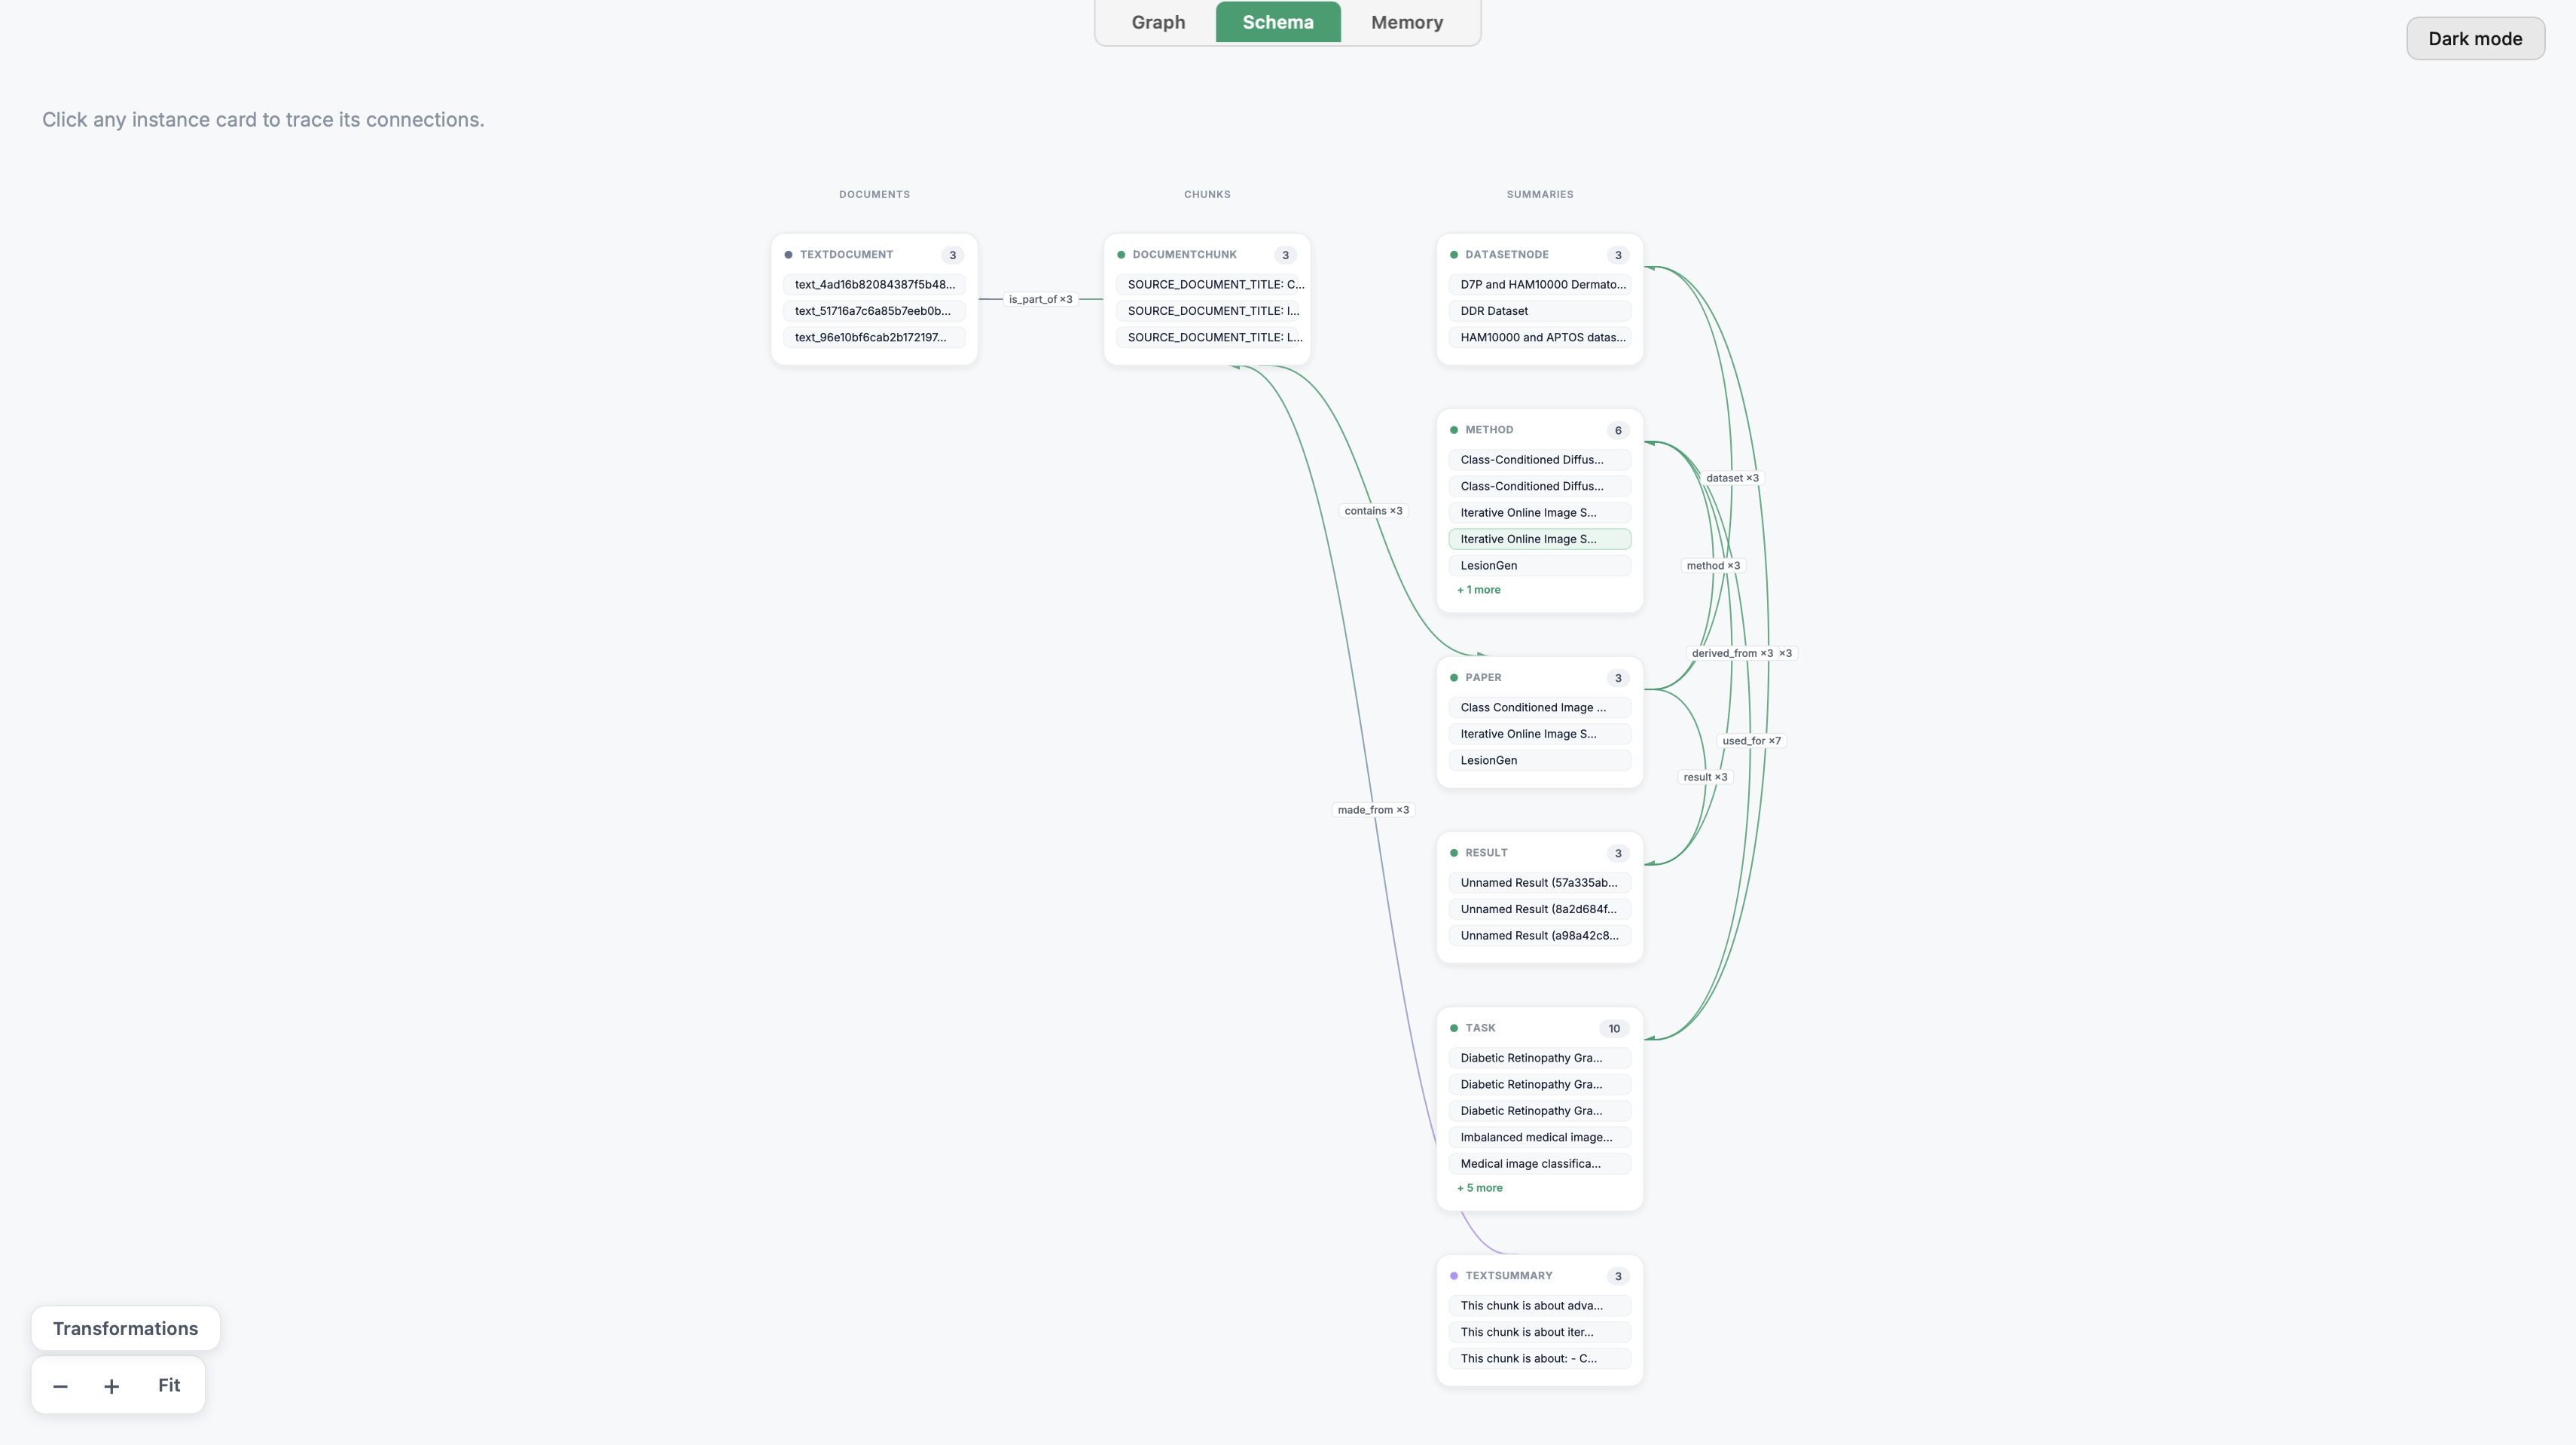
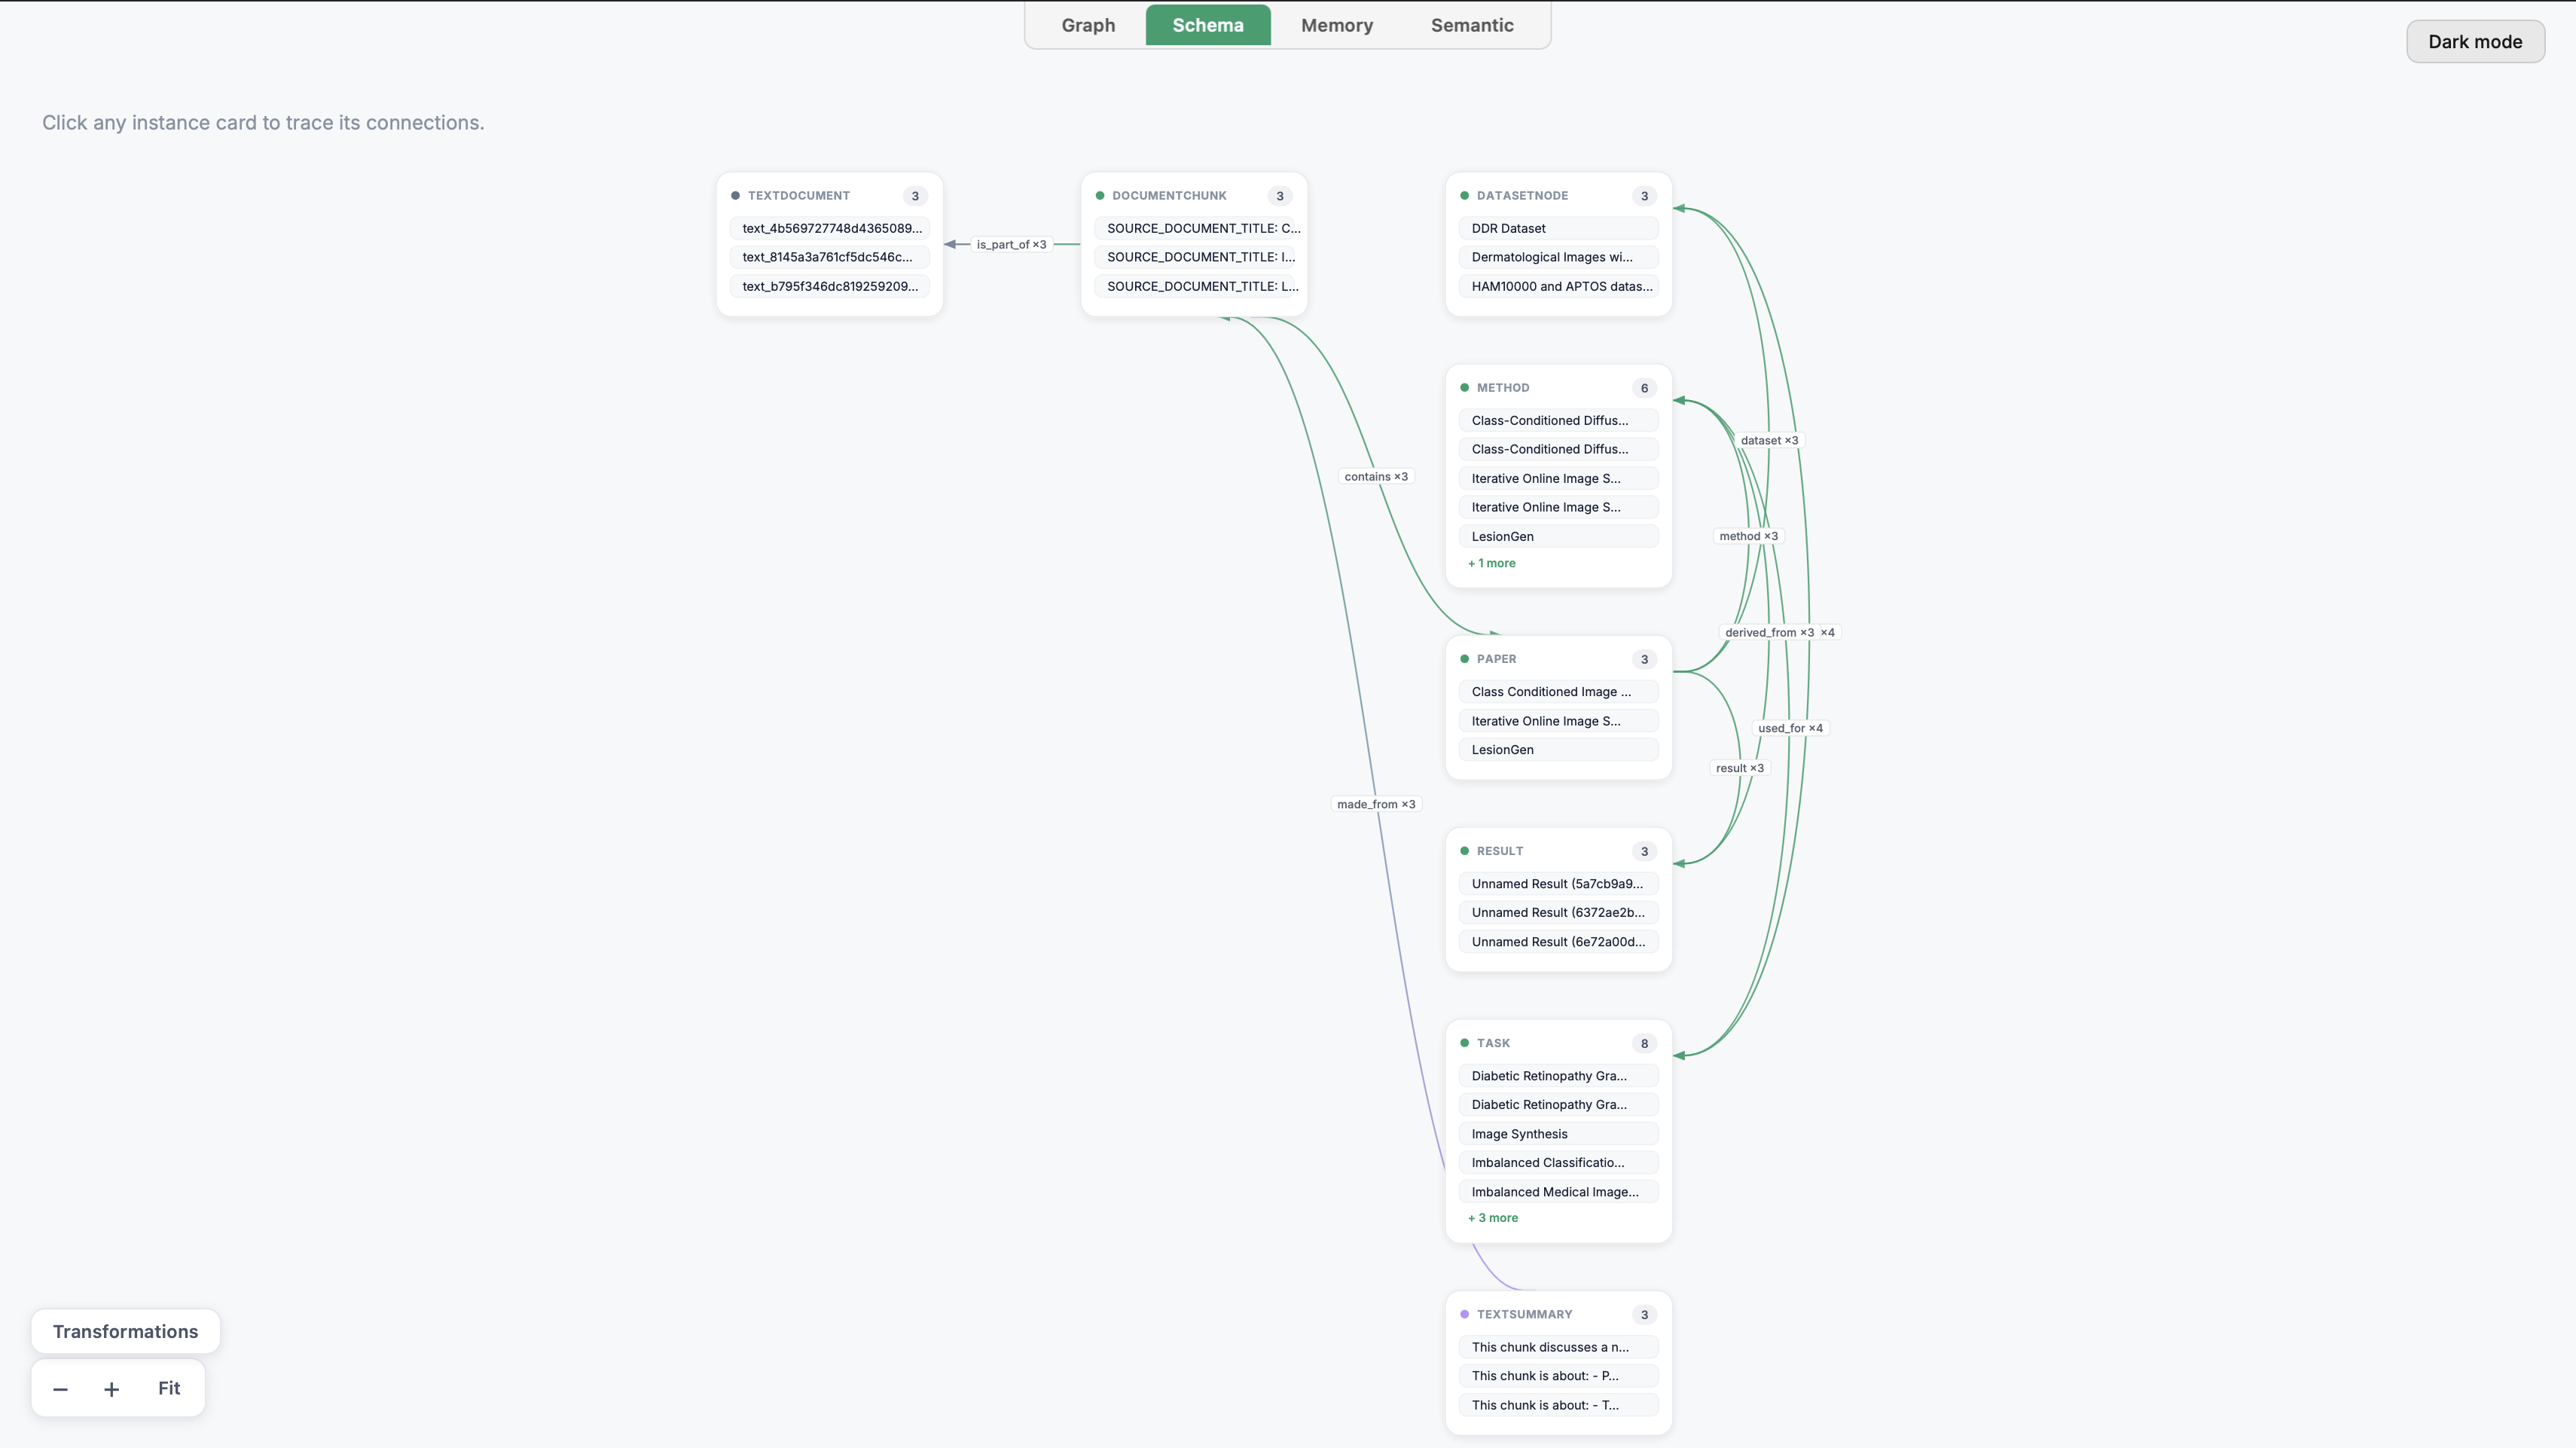
updated readme

diff --git a/README.md b/README.md
@@ -58,7 +58,13 @@ Every pipeline run also writes an interactive HTML visualization of the construc
 
 ## Example run
 
-Fed 3 papers on diffusion-based synthetic data generation for imbalanced medical image classification (diabetic retinopathy grading and skin lesion classification), the pipeline surfaced 3 candidate (Method, Dataset) pairs. The Critic approved 1 and rejected 2 - which is the verification loop doing its job, not a failure rate to minimize.
+Fed 3 papers on diffusion-based synthetic data generation for imbalanced medical image classification (diabetic retinopathy grading and skin lesion classification):
+
+1. [Iterative Online Image Synthesis via Diffusion Model for Imbalanced Classification](https://papers.miccai.org/miccai-2024/paper/0901_paper.pdf)
+2. [Class-Conditioned Image Synthesis with Diffusion for Imbalanced Diabetic Retinopathy Grading](https://papers.miccai.org/miccai-2025/paper/4449_paper.pdf)
+3. [LesionGen: A Concept-Guided Diffusion Model for Dermatology Image Synthesis](https://workshop.isic-archive.com/2025/paper_fayyad.pdf)
+
+The pipeline surfaced 3 candidate (Method, Dataset) pairs. The Critic approved 1 and rejected 2 - which is the verification loop doing its job, not a failure rate to minimize.
 
 **Approved:** *Iterative Online Image Synthesis (IOIS) × DDR Dataset*
 